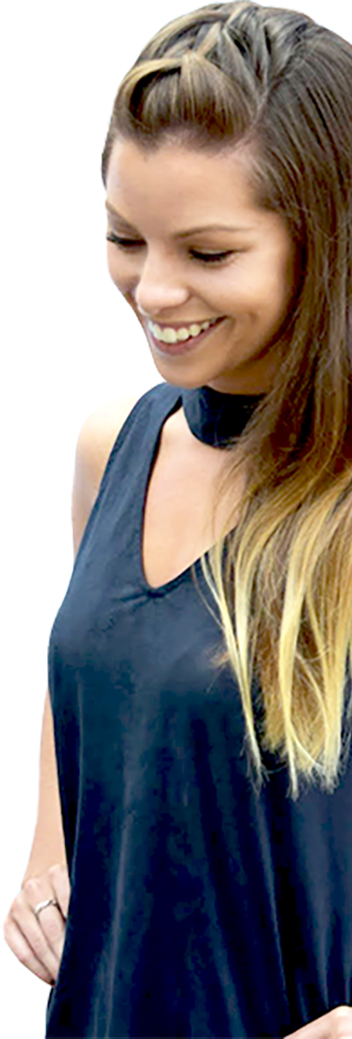
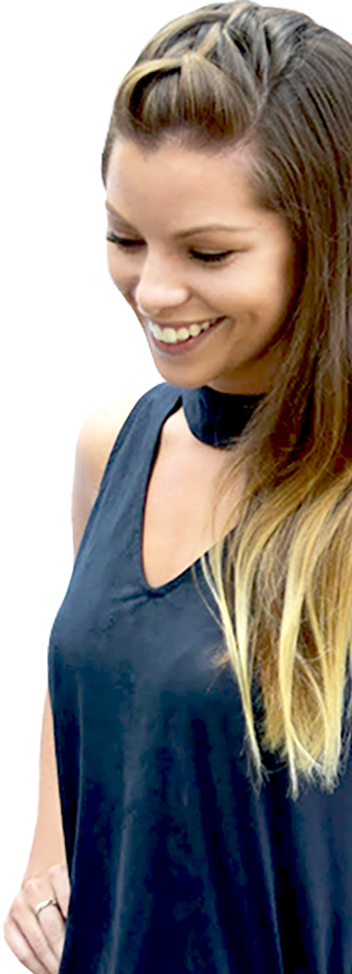
sep 19 changes

diff --git a/css/style.css b/css/style.css
@@ -9,7 +9,13 @@ html, body{
    margin: 0;
  }
  h1, h2, h3, h4, h5, h6 {
-   font-family: "aviano sans", Helvetica, Arial, sans-serif;
+   font-family: "semplicita pro", Helvetica, Arial, sans-serif;
+ }
+ h1{
+   letter-spacing: 5px;
+   line-height: 70px;
+   text-align: center;
+   font-size: 30px;
  }
  h2 {
    font-size:16px;
@@ -17,15 +23,23 @@ html, body{
    margin-bottom: 5px;
  }
  p {
-   font-family: "aviano sans", Helvetica, Arial, sans-serif;
+   font-family: "termina", Helvetica, Arial, sans-serif;
    font-size:12px;
    line-height: 19px;
    font-weight: 100;
    margin-top: 80px;
   }
   A {
-     text-decoration:none;
-   }
+  color: #425464;
+  text-decoration: none;
+}
+a:active {
+  color: #42E8E3;
+  text-decoration: underline;
+}
+a:hover {
+  color: #42E8E3;
+}
 @media (min-width: 620px) {
   h2 {
      font-size:28px;
@@ -88,12 +102,174 @@ html, body{
    .container {
      width: 1170px;
    }
-  /*hero*/
-  .my-photo {
-      float:right;
-      clear:both;
+
+  /*header*/
+  .portfolio-links {
+    list-style: none;
+    display: flex;
+    float: right;
+}
+  .portfolio-links li {
+  margin: 0 20px;
+  font-size: 80%;
+  display: inline-table;
+}
+.portfolio-links li:last-child {
+  margin-right: 0;
+}
+@media (min-width: 700px) {
+  .portfolio-links {
+    list-style: none;
+    display: flex;
+    max-height: 100%;
   }
-  .container-hero p {
-    position:absolute;
-    clear:both;
+}
+@media (min-width: 700px) {
+    .portfolio-links li {
+    margin: 0 20px;
+    max-height: 100%;
   }
+}
+@media (min-width: 700px) {
+  .portfolio-links li:last-child {
+    margin-right: 0;
+    max-height: 100%;
+  }
+  .five-step {
+     overflow: hidden;
+  }
+  .site-logo {
+    margin-top: 30px;
+    position: relative;
+    margin: 10px 15px 15px 10px;
+  }
+}
+  header .hero {
+   text-align: left;
+   display:block;
+   position: relative;
+   clear:both;
+ }
+ /* HEADER */
+  header {
+    background: #EDEEF1;
+   box-shadow: 0px 2px 4px 0px #DBDADA;
+  }
+  header nav {
+    padding:1em 0;
+  }
+  #body_div {
+  top: 0;
+  position: relative;
+  height: 200px;
+  background-color: green;
+}
+
+#banner {
+  width: 100%;
+  height: 273px;
+  background-color: gray;
+  overflow: hidden;
+}
+
+#nav_bar {
+  border: 0;
+  background-color: #EDEEF1;
+  border-radius: 0px;
+  margin-bottom: 0;
+  height: 30px;
+}
+  .header {
+  padding: 10px 15px;
+  display: flex;
+  justify-content: space-between;
+  max-width: 1400px;
+  margin: 0 auto;
+  align-items: center;
+  }
+  .one-fifth {
+    max-width: 34%;
+  }
+  header nav ul {
+  padding: 10px 15px;
+  display: flex;
+  float: right;
+  max-width: 1170px;
+  margin: 0 auto;
+  align-items: center;
+  }
+@media (min-width: 639px){
+  header nav ul {
+  padding: 10px 15px;
+  display: flex;
+  justify-content: space-between;
+  max-width: 1170px;
+  margin: 0 auto;
+  align-items: center;
+  }
+}
+  header nav ul > li {
+    list-style-type: none;
+    display: inline-block;
+    margin:0 15px;
+  }
+ /*hero*/
+ .my-photo {
+     float:right;
+     clear:both;
+     margin-top: -40px;
+     opacity: .6;
+ }
+ .container-hero p {
+   position:absolute;
+   clear:both;
+   margin-top: 660px;
+   padding-top: 30px;
+   padding-bottom: 30px;
+   background: rgba(236, 238, 240, 0.5);
+ }
+ /* body */
+  body {
+    background: #F4F6F8;
+  }
+  .container-hero.hero {
+    display: flex;
+    justify-content: space-between;
+    max-width: inherit;
+  }
+  .container-hero.hero p {
+    margin-right: auto;
+    margin-left: auto;
+    padding-left: 55px;
+    padding-right: 55px;
+    line-height: 24px;
+    font-size: 14px;
+  }
+
+  .animated.fadeIn {
+    margin-left: 55px;
+    margin-top: 250px;
+    padding-left: 15px;
+    position: relative;
+  }
+
+   /* portfolio */
+.portfolio {
+
+   }
+.portfolio h1 {
+  margin: 0;
+
+}
+.title {
+  max-width: 355px ;
+}
+.title p .portfolio-link a {
+  display: flex;
+  margin: auto;
+}
+.title p {
+  margin: 0;
+  display: inline-table;
+  text-align: center;
+}

diff --git a/index.html b/index.html
@@ -25,12 +25,14 @@
     <ul class="portfolio-links">
       <li><a href="about.html">ABOUT</a></li>
       <li><a href="portfolio.html">PORTFOLIO</a></li>
-      <li><a href="medium.html">MEDIUM</a></li>
+      <li><a href="drawings.html">DRAWINGS</a></li>
       <li><a href="contact.html">CONTACT</a></li>
       </ul>
       </div>
+        </header>
+          <section>
       </nav>
-      <div class="container-hero">
+      <div class="container-hero hero">
         <h1 class="animated fadeIn">PRODUCING ELEGANT<br/>HUMAN CENTERED SOLUTIONS.</h1>
           <a href="index.html" class="my-photo"><img src="images/my-photo.png" alt="TAYLOR BROWN"/></a>
 
@@ -39,15 +41,29 @@
           Taylor was introduced to UI/UX design by some tech savvy friends; it instantly struck the perfect chord in her creative, order-loving mind.  Achieving beautiful solutions for internet pioneers is Taylor’s jam. Leave your branding, user experience & marketing needs to her.<br/>
           <br/>
           Taylor holds a certificate in UI/UX design from BLOC.</p>
-
-      <!--  <a href="signup.html" class="btn">Start Your Free Trial!</a>
-        <img src="images/dashboard.png" alt="Scribble" /> -->
         </div>
-        </header>
-        <section>
+        <main role="main">
+                  <!-- portfolio -->
+        <section class="portfolio">
+          <div class = "title">
+          <h1>PORTFOLIO</h1>
+          <p> MY LATEST WORK.</p>
+          <a href="portfolio-links.html" class="portfolio-link"> SEE MORE ></a>
+          </div>
+          <div class ="collage-container">
+            <div class ="row">
+            <a href="index.html" class="col-1"><img src="images/scribble.png" alt="SCRIBBLE"/></a>
+            <a href="index.html" class="col-1"><img src="images/bloc-eats.png" alt="BLOC-EATS"/></a>
+            </div>
+            <div class ="row">
+            <a href="index.html" class="col-2"><img src="images/bloc-talk.png" alt="BLOC-TALK"/></a>
+            <a href="index.html" class="col-2"><img src="images/bloc-jams.png" alt="BLOC-JAMS"/></a>
+            </div>
+            </div>
         </section>
         <section>
           </section>
+          <script src="js/scrollTop.js"></script>
           <footer>
             </footer>
             </body>

diff --git a/js/scrolltop.js b/js/scrolltop.js
@@ -1,0 +1,19 @@
+$(document).ready(function() {
+  //change the integers below to match the height of your upper dive, which I called
+  //banner.  Just add a 1 to the last number.  console.log($(window).scrollTop())
+  //to figure out what the scroll position is when exactly you want to fix the nav
+  //bar or div or whatever.  I stuck in the console.log for you.  Just remove when
+  //you know the position.
+  $(window).scroll(function () {
+
+    console.log($(window).scrollTop());
+
+    if ($(window).scrollTop() > 550) {
+      $('#nav_bar').addClass('navbar-fixed-top');
+    }
+
+    if ($(window).scrollTop() < 551) {
+      $('#nav_bar').removeClass('navbar-fixed-top');
+    }
+  });
+});
